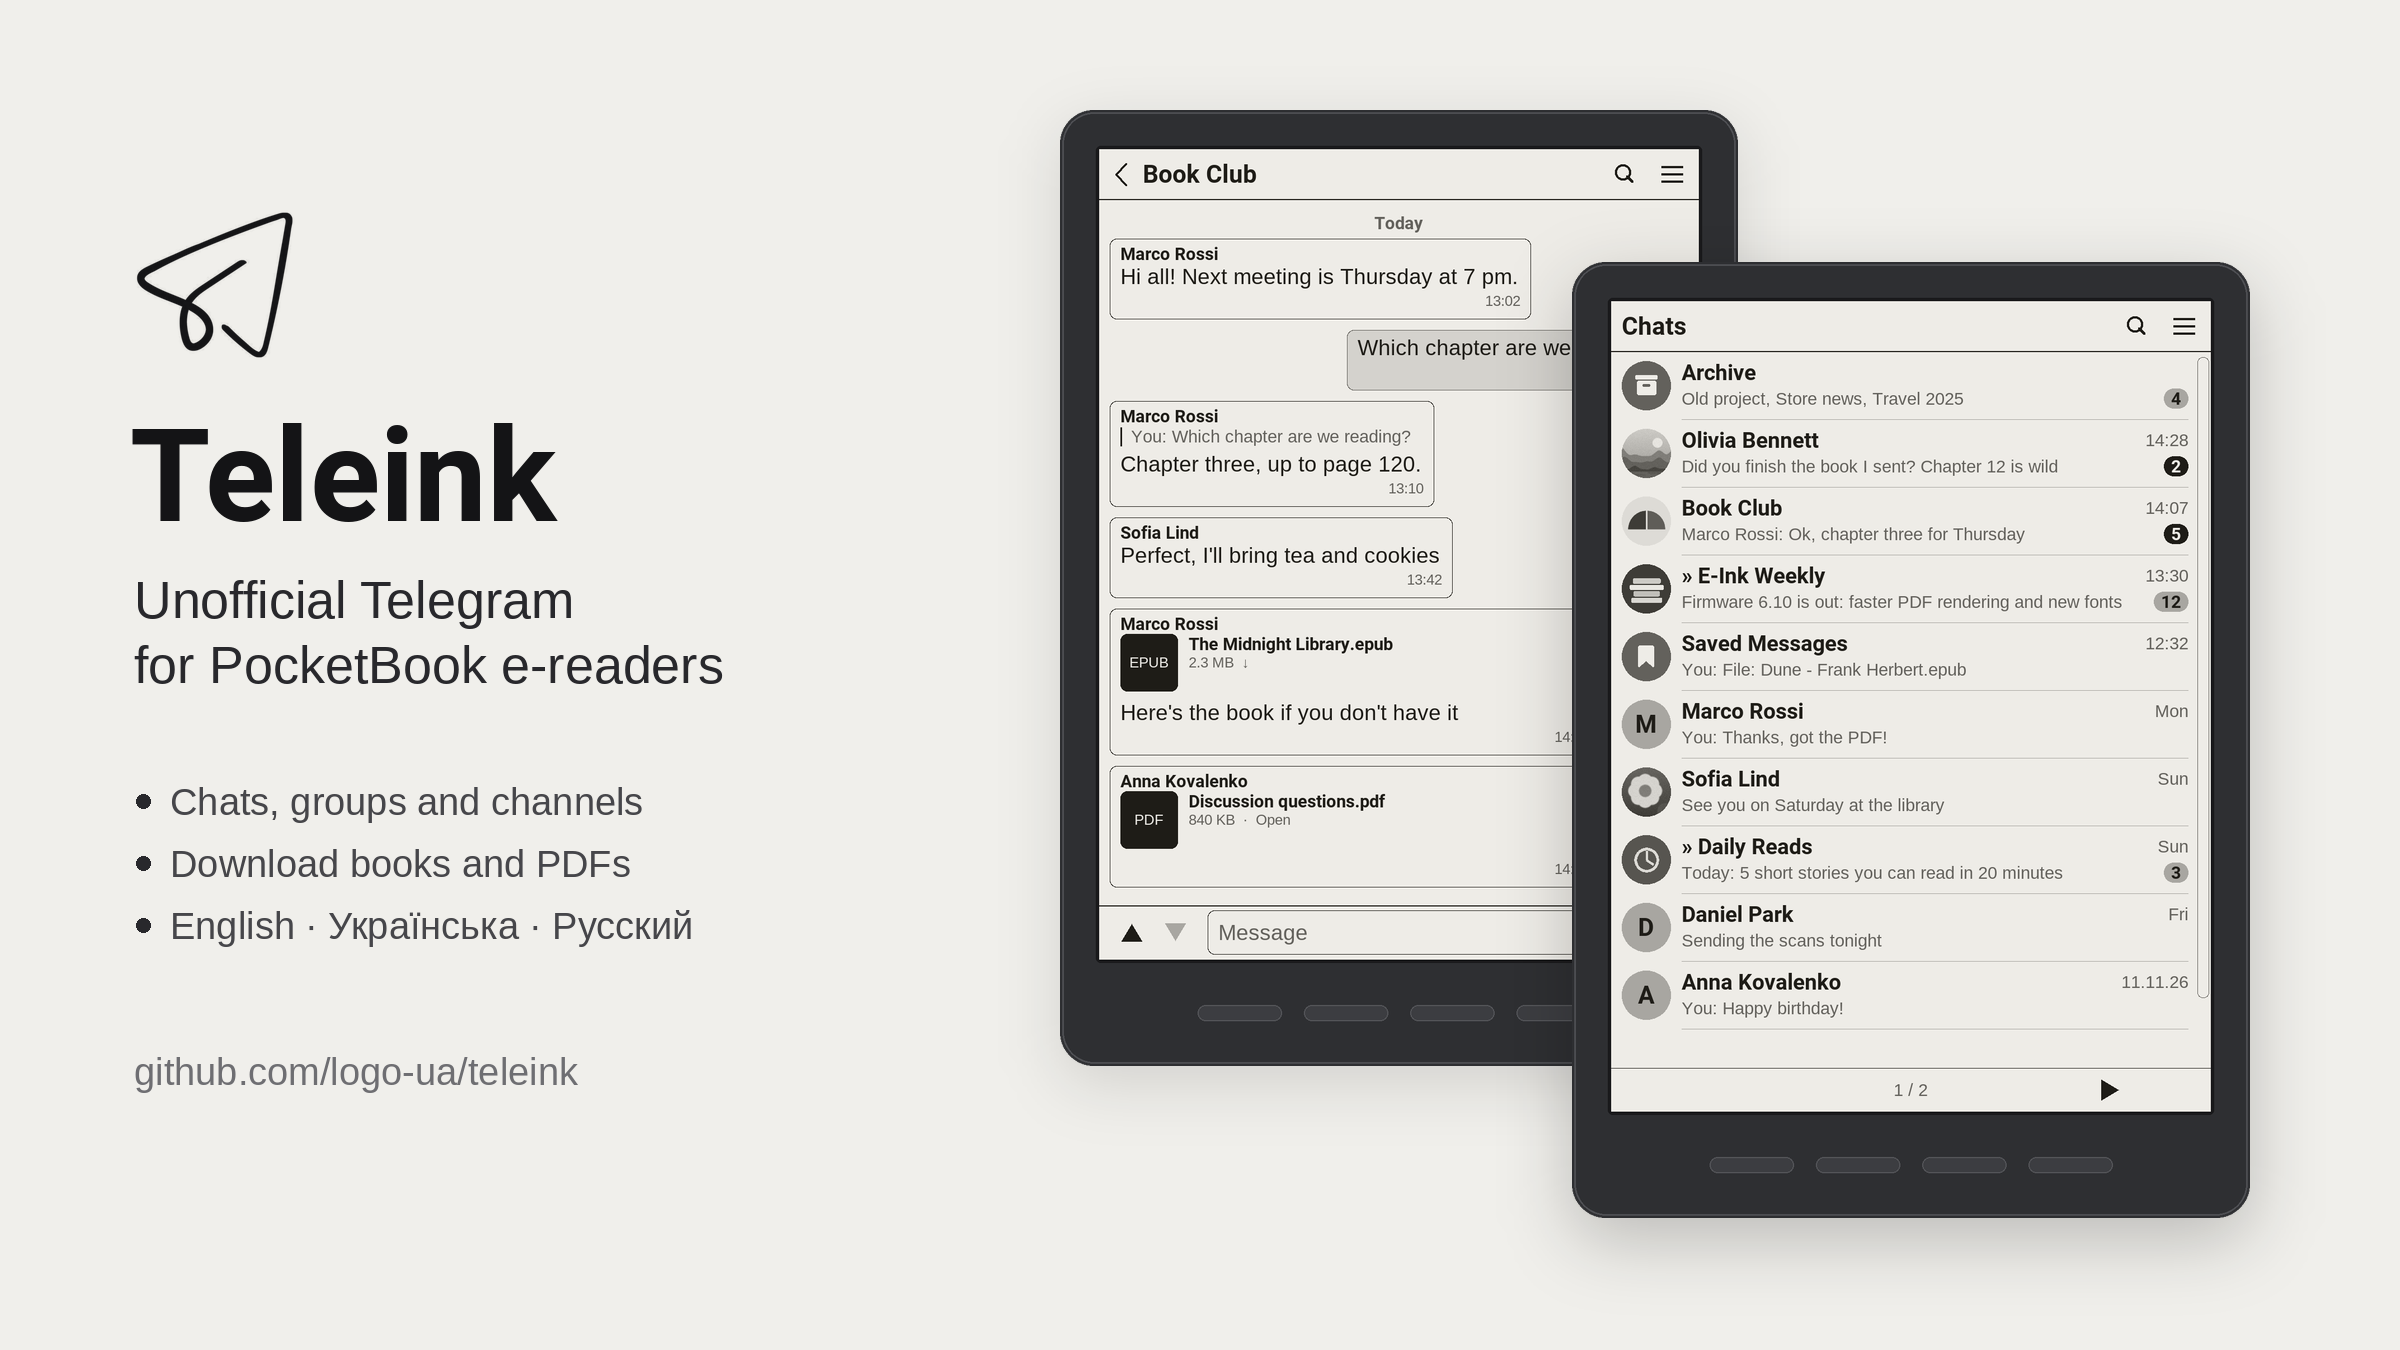
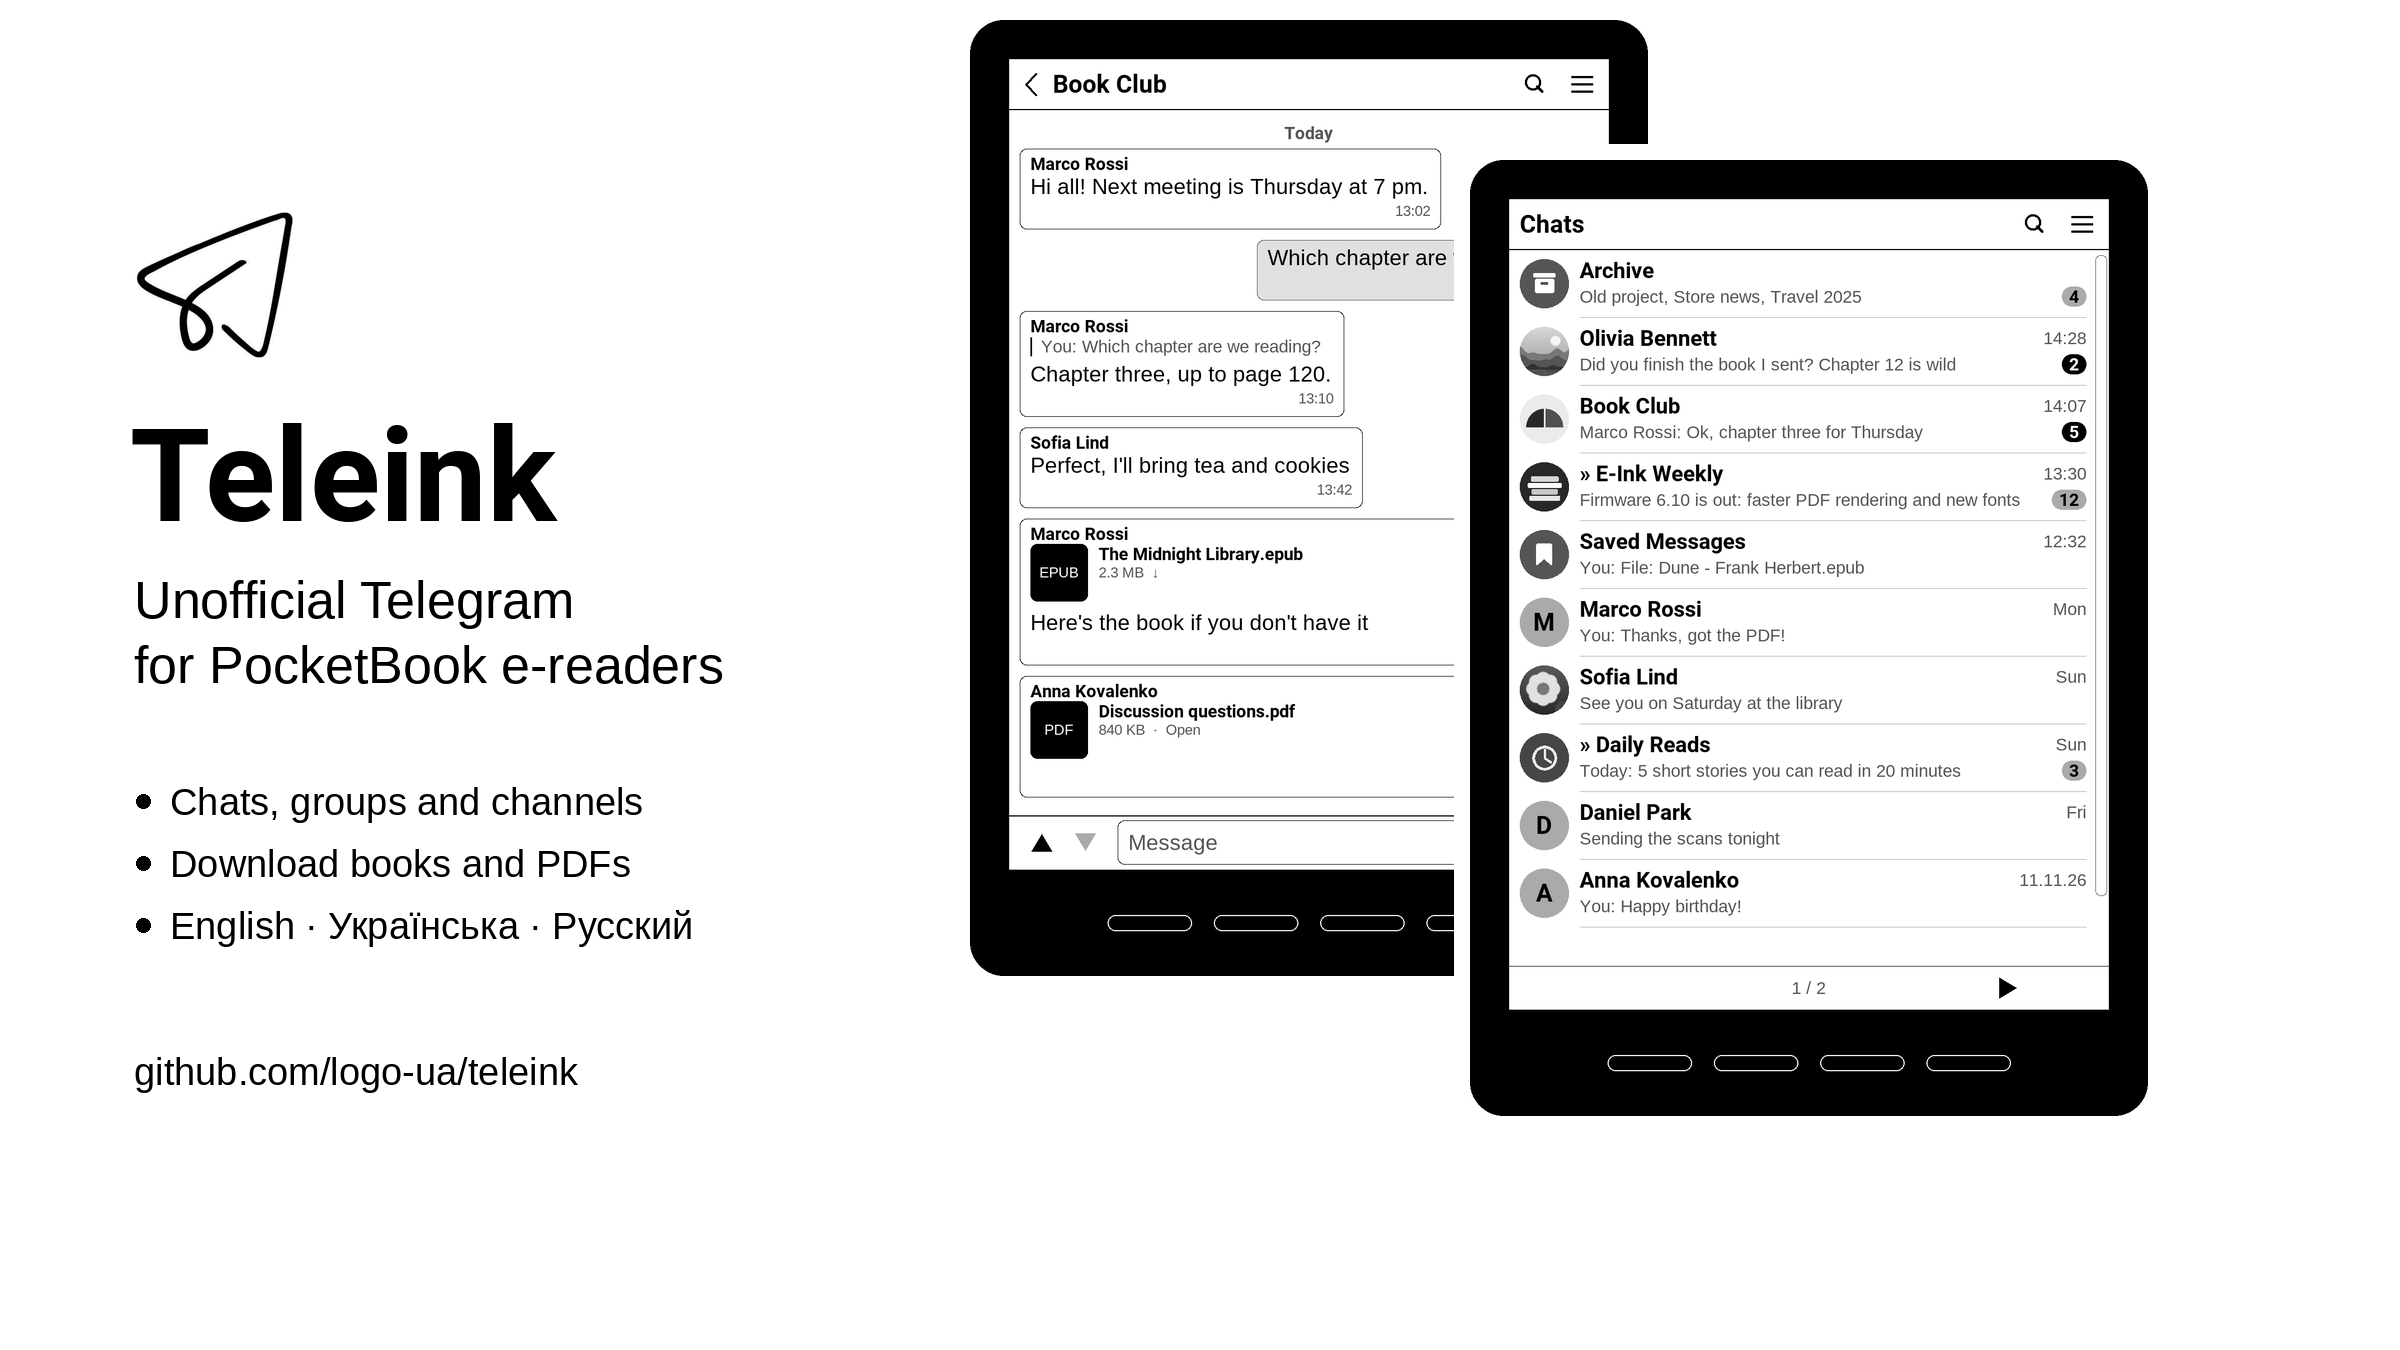
Website and promo images in pure black and white
Claude-Session: https://claude.ai/code/session_013hFmHjppzszCRNcrfTJgxM

diff --git a/docs/index.html b/docs/index.html
@@ -3,7 +3,7 @@
 <head>
 <meta charset="utf-8">
 <meta name="viewport" content="width=device-width, initial-scale=1">
-<meta name="color-scheme" content="light dark">
+<meta name="color-scheme" content="light">
 <title>Teleink — Unofficial Telegram for PocketBook</title>
 <meta name="description" content="Teleink is a free, open-source unofficial Telegram client for PocketBook e-readers. Chats, channels and the easiest way to send books to your reader.">
 <meta name="keywords" content="Telegram for PocketBook, Telegram PocketBook, PocketBook app, e-reader Telegram, send books to PocketBook, Teleink">
@@ -17,14 +17,8 @@
 <meta name="twitter:card" content="summary_large_image">
 <style>
   :root {
-    --paper: #f0efeb; --card: #fbfaf7; --ink: #161618; --muted: #5d5d62; --line: #d9d7d0;
-    --btn: #161618; --btn-ink: #fbfaf7; --r: 18px;
-  }
-  @media (prefers-color-scheme: dark) {
-    :root { --paper: #18181a; --card: #222225; --ink: #ececea; --muted: #a2a2a7; --line: #36363a;
-            --btn: #ececea; --btn-ink: #18181a; }
-    .plane { filter: invert(1); mix-blend-mode: screen; }
-    .hero img.shot { background: #f0efeb; }
+    --paper: #fff; --card: #fff; --ink: #000; --muted: #000; --line: #000;
+    --btn: #000; --btn-ink: #fff; --r: 18px;
   }
   * { box-sizing: border-box; }
   html { scroll-behavior: smooth; }
